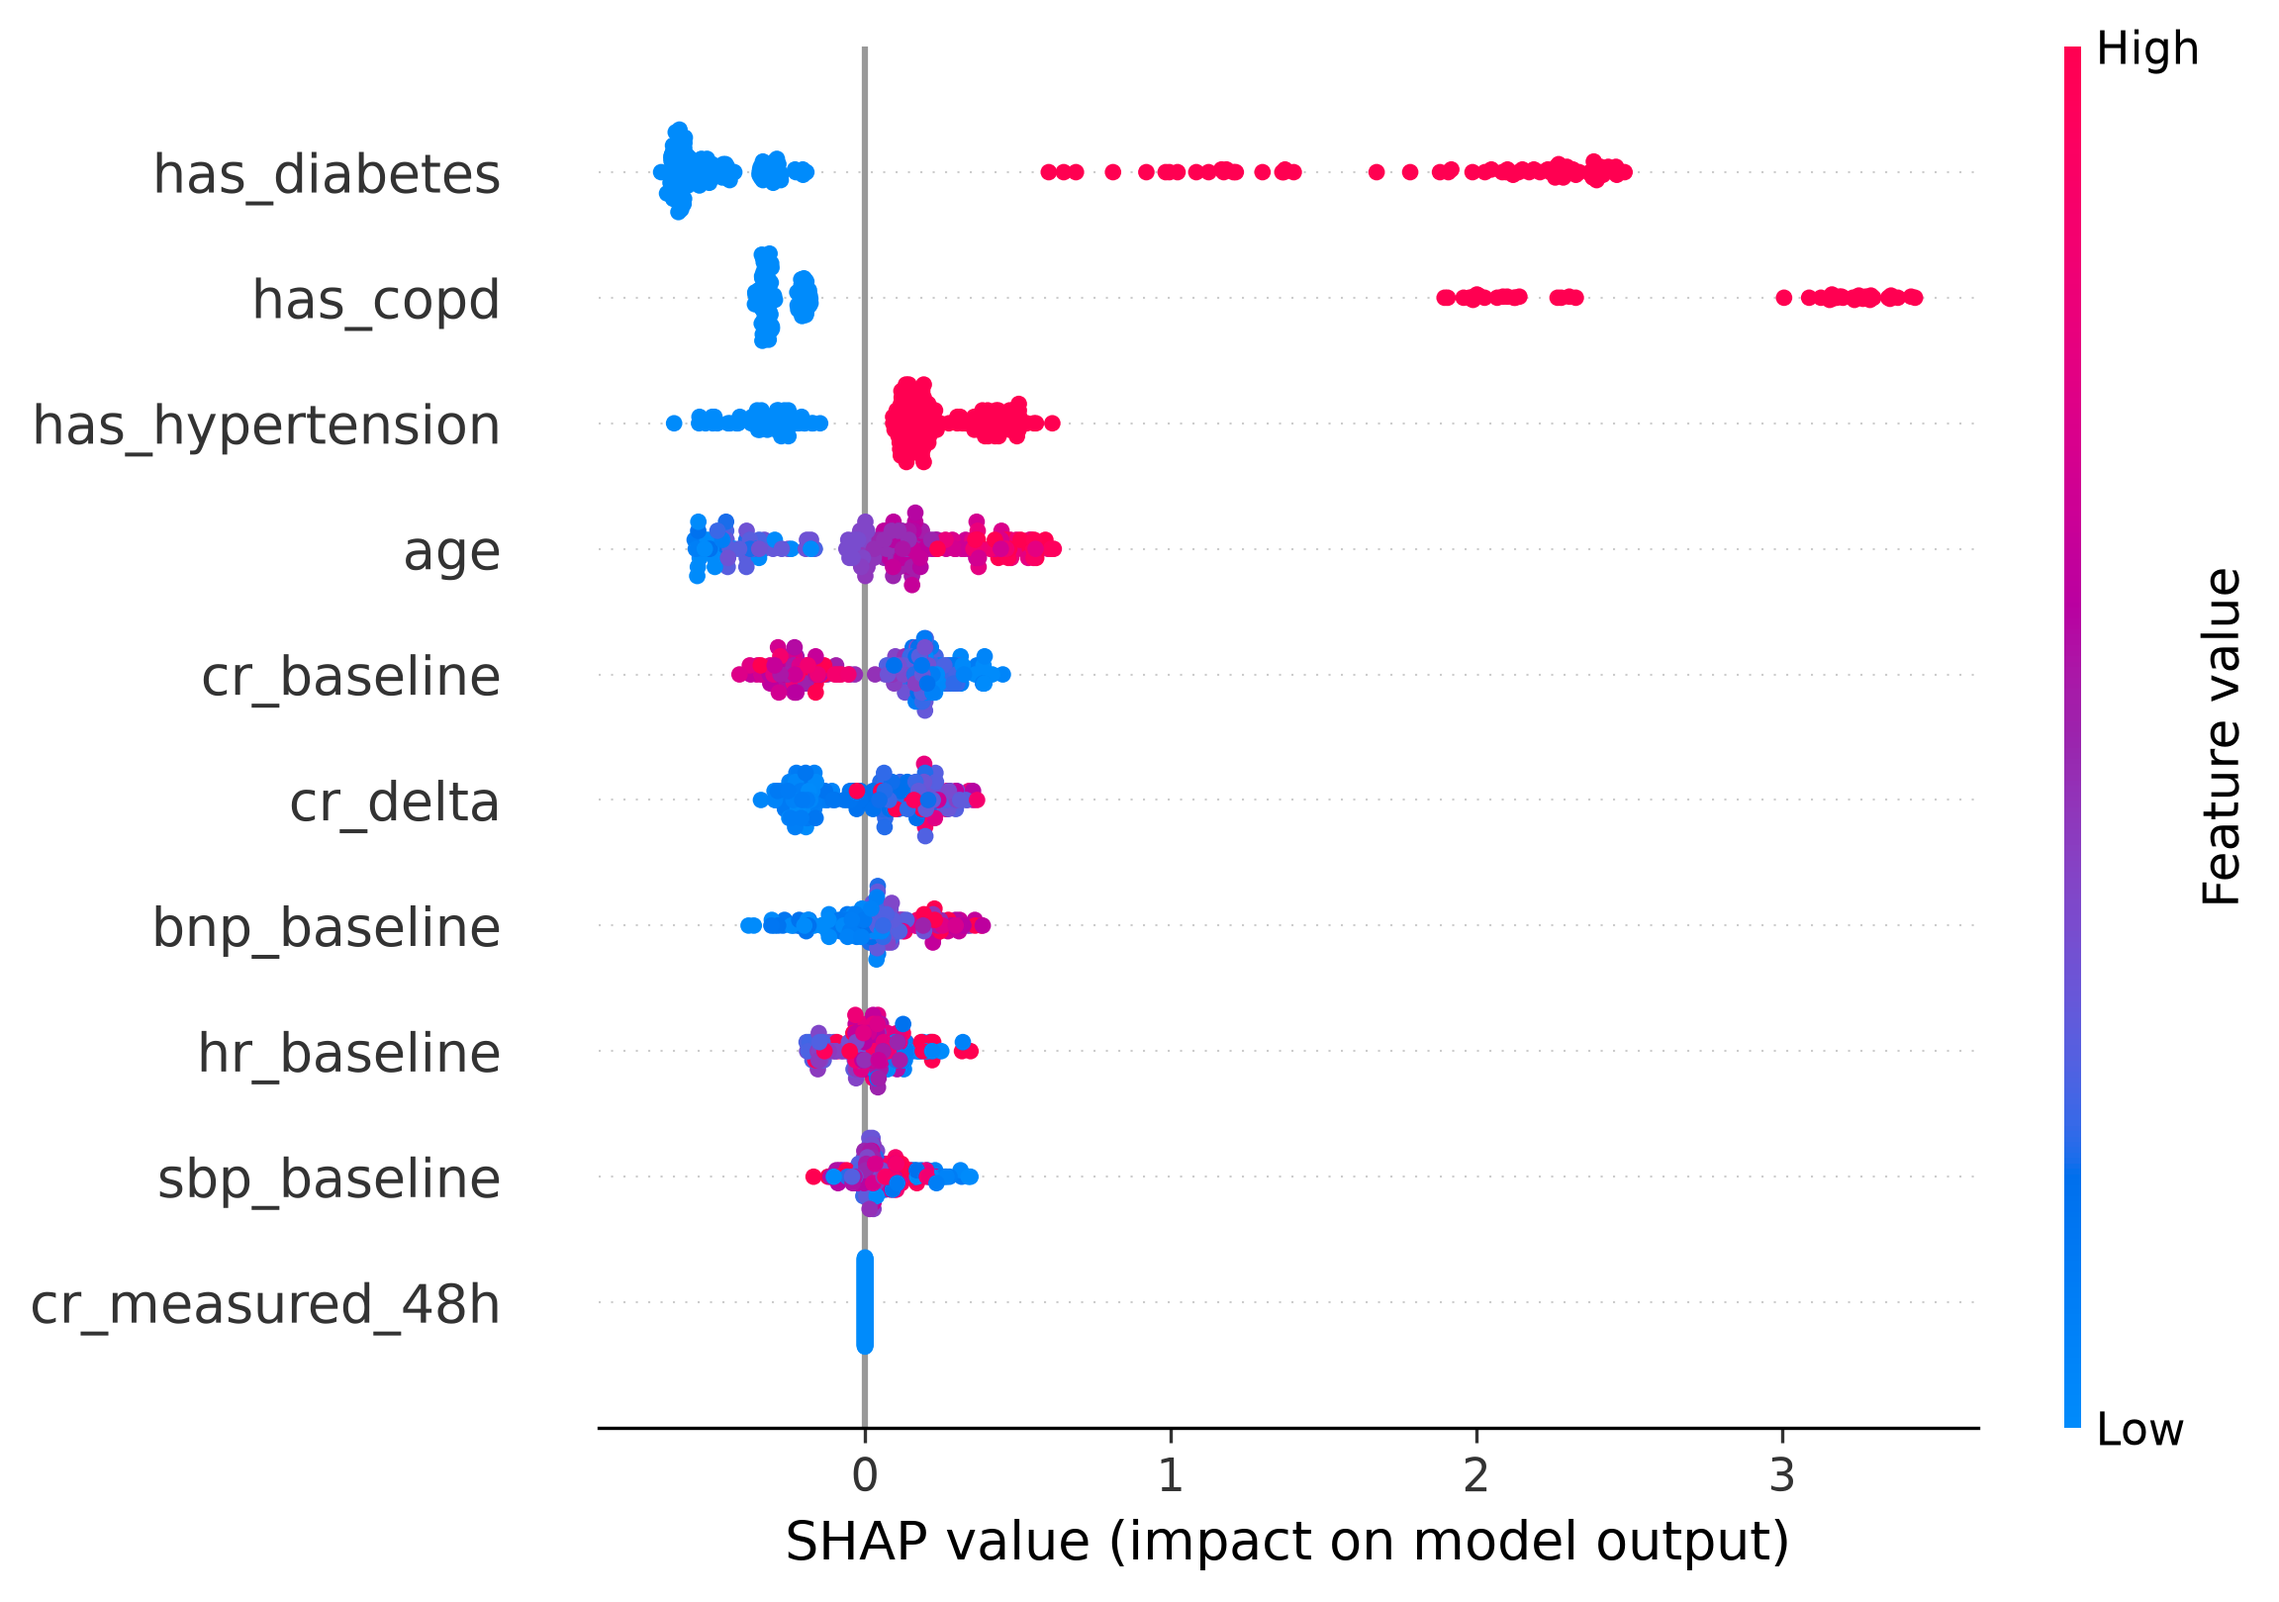
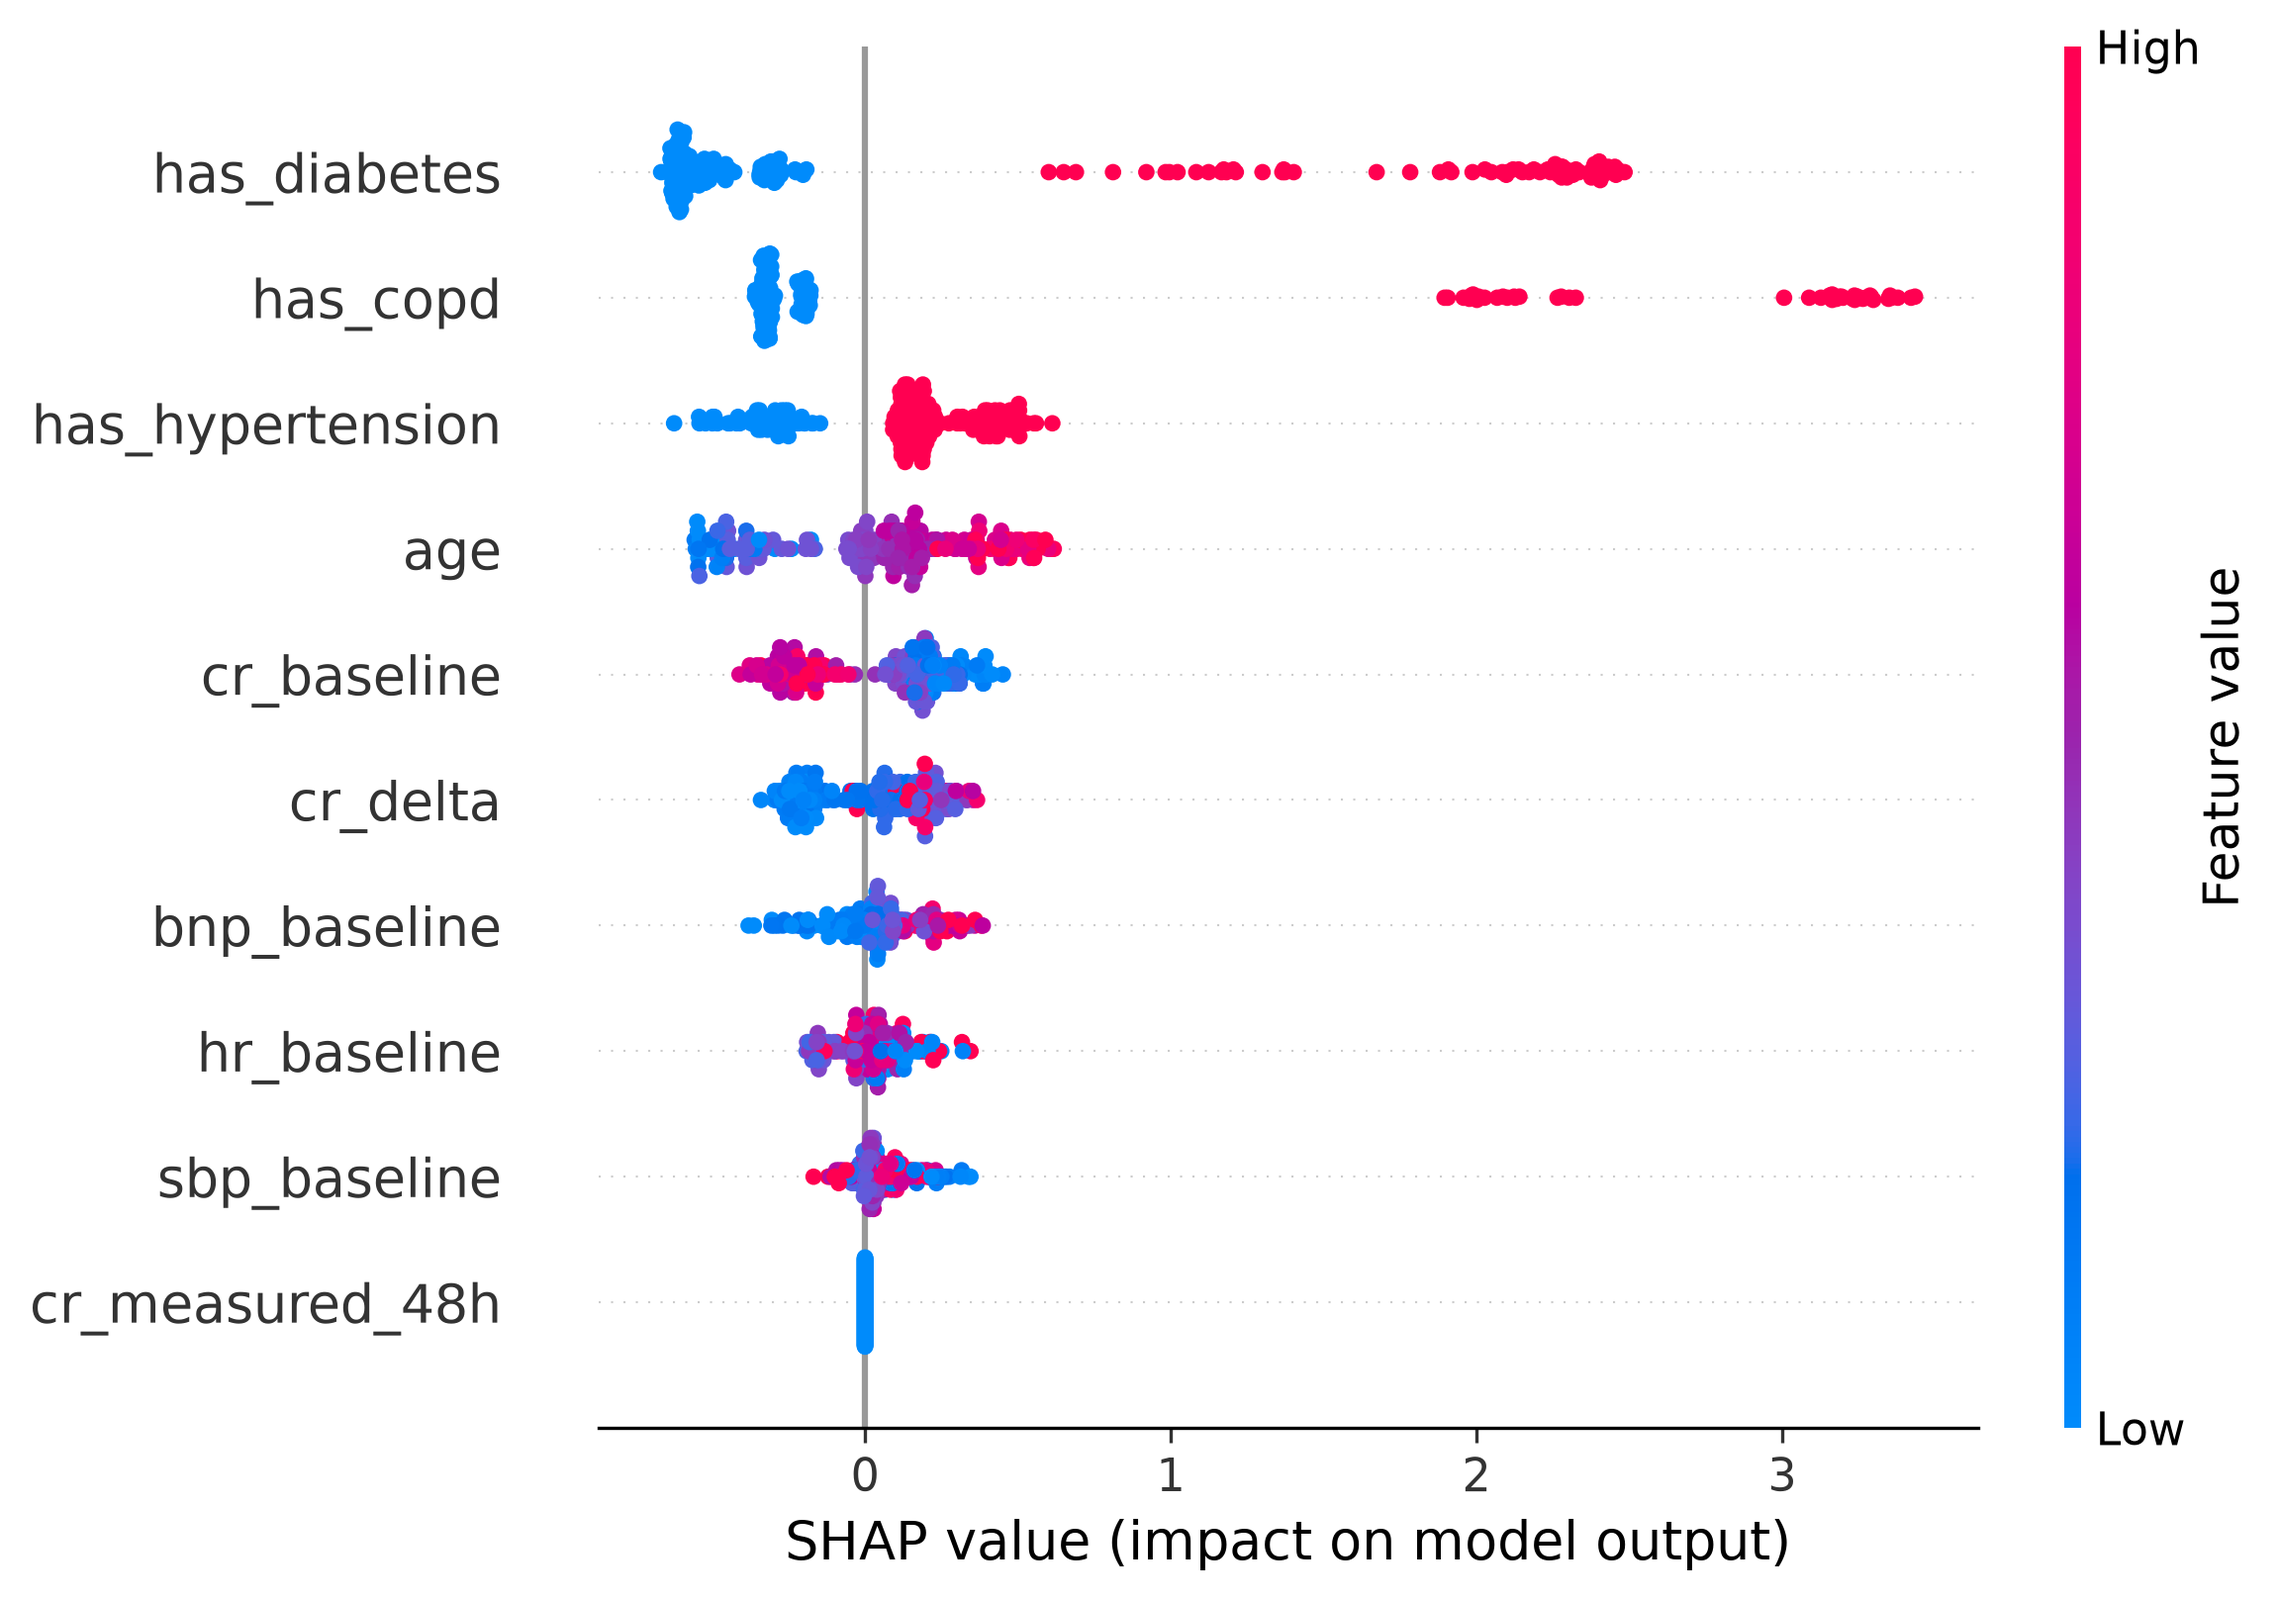
feat: add calibration curves and decision curve analysis (DCA) for clinical utility

diff --git a/src/evaluation.py b/src/evaluation.py
@@ -1,0 +1,69 @@
+import numpy as np
+import pandas as pd
+import matplotlib
+matplotlib.use("Agg")
+import matplotlib.pyplot as plt
+from sklearn.calibration import calibration_curve
+
+
+def plot_calibration_curve(y_true, y_prob, save_path: str = "reports/calibration_curve.png"):
+    """Evaluates probabilistic reliability against perfect calibration."""
+    prob_true, prob_pred = calibration_curve(y_true, y_prob, n_bins=10, strategy="quantile")
+    
+    plt.figure(figsize=(6, 5))
+    plt.plot(prob_pred, prob_true, marker="s", color="#1f77b4", label="XGBoost Calibration")
+    plt.plot([0, 1], [0, 1], linestyle="--", color="gray", label="Perfect Calibration")
+    plt.xlabel("Mean Predicted Probability")
+    plt.ylabel("Observed Fraction of Positives (LOS > 7d)")
+    plt.title("Reliability Diagram (Model Calibration)")
+    plt.legend(loc="lower right")
+    plt.grid(True, linestyle=":", alpha=0.6)
+    plt.tight_layout()
+    plt.savefig(save_path, dpi=300)
+    plt.close()
+    print(f"Calibration plot saved to: {save_path}")
+
+
+def calculate_dca(y_true, y_prob, thresholds=np.linspace(0.05, 0.80, 50)):
+    """
+    Computes Clinical Net Benefit across decision threshold probabilities:
+    Net Benefit = (True Positives / N) - (False Positives / N) * (p_t / (1 - p_t))
+    """
+    n = len(y_true)
+    prevalence = np.mean(y_true)
+    net_benefit_model = []
+    net_benefit_all = []
+
+    for pt in thresholds:
+        y_pred = (y_prob >= pt).astype(int)
+        tp = np.sum((y_pred == 1) & (y_true == 1))
+        fp = np.sum((y_pred == 1) & (y_true == 0))
+        nb = (tp / n) - (fp / n) * (pt / (1 - pt))
+        net_benefit_model.append(nb)
+        
+        nb_all = prevalence - (1 - prevalence) * (pt / (1 - pt))
+        net_benefit_all.append(nb_all)
+
+    return thresholds, net_benefit_model, net_benefit_all
+
+
+def plot_decision_curve(y_true, y_prob, save_path: str = "reports/decision_curve_analysis.png"):
+    """Renders Decision Curve Analysis to demonstrate clinical utility."""
+    thresholds, nb_model, nb_all = calculate_dca(y_true, y_prob)
+
+    plt.figure(figsize=(7, 5))
+    plt.plot(thresholds, nb_model, color="#2ca02c", lw=2, label="XGBoost Strategy")
+    plt.plot(thresholds, nb_all, color="#d62728", linestyle="--", label="Intervene on All Patients")
+    plt.axhline(0, color="black", linestyle=":", label="Intervene on None")
+    
+    plt.ylim(-0.05, max(nb_model) + 0.05)
+    plt.xlim(0.05, 0.80)
+    plt.xlabel("Bedside Clinical Decision Threshold ($p_t$)")
+    plt.ylabel("Standardized Net Benefit")
+    plt.title("Decision Curve Analysis (Clinical Net Benefit)")
+    plt.legend(loc="upper right")
+    plt.grid(True, linestyle=":", alpha=0.6)
+    plt.tight_layout()
+    plt.savefig(save_path, dpi=300)
+    plt.close()
+    print(f"Decision Curve plot saved to: {save_path}")

diff --git a/main.py b/main.py
@@ -6,10 +6,11 @@ from src.data import load_multimodal_cohort
 from src.features import engineer_clinical_features
 from src.models import ClinicalRiskPipeline, train_xgboost_model
 from src.explainability import generate_shap_explanations
+from src.evaluation import plot_calibration_curve, plot_decision_curve
 
 def run_pipeline():
     print("\n==========================================")
-    print(" Executing Clinical ML & SHAP Pipeline")
+    print(" Executing Clinical ML, SHAP & DCA Pipeline")
     print("==========================================\n")
     
     # 1. Ingestion
@@ -31,12 +32,18 @@ def run_pipeline():
     
     # 4. Non-Linear Modeling (XGBoost)
     xgb_model, xgb_auc = train_xgboost_model(X_train, y_train, X_test, y_test)
+    y_test_probs = xgb_model.predict_proba(X_test)[:, 1]
     
     # 5. Model Explainability (SHAP)
     print("\nGenerating bedside SHAP feature attribution reports...")
     generate_shap_explanations(xgb_model, X_train, X_test)
+
+    # 6. Clinical Utility & Calibration
+    print("\nGenerating Calibration & Decision Curve Analysis...")
+    plot_calibration_curve(y_test, y_test_probs)
+    plot_decision_curve(y_test, y_test_probs)
     
-    print("\nPipeline execution complete. Reports saved to 'reports/' directory.\n")
+    print("\nPipeline execution complete. All clinical reports saved to 'reports/' directory.\n")
 
 if __name__ == "__main__":
     run_pipeline()

diff --git a/README.md b/README.md
@@ -31,3 +31,12 @@ TreeExplainer SHAP values decouple non-linear clinical risk drivers, ensuring gr
 
 ### Bedside Case Attribution (Local Patient 0)
 ![SHAP Waterfall](reports/shap_waterfall_patient_0.png)
+## Clinical Utility & Model Reliability
+
+### Probabilistic Calibration
+Evaluates whether predicted probabilities match empirical risk across bins:
+![Reliability Diagram](reports/calibration_curve.png)
+
+### Decision Curve Analysis (DCA)
+Quantifies clinical net benefit against default "treat all" or "treat none" policies across decision thresholds ($p_t$):
+![Decision Curve Analysis](reports/decision_curve_analysis.png)
